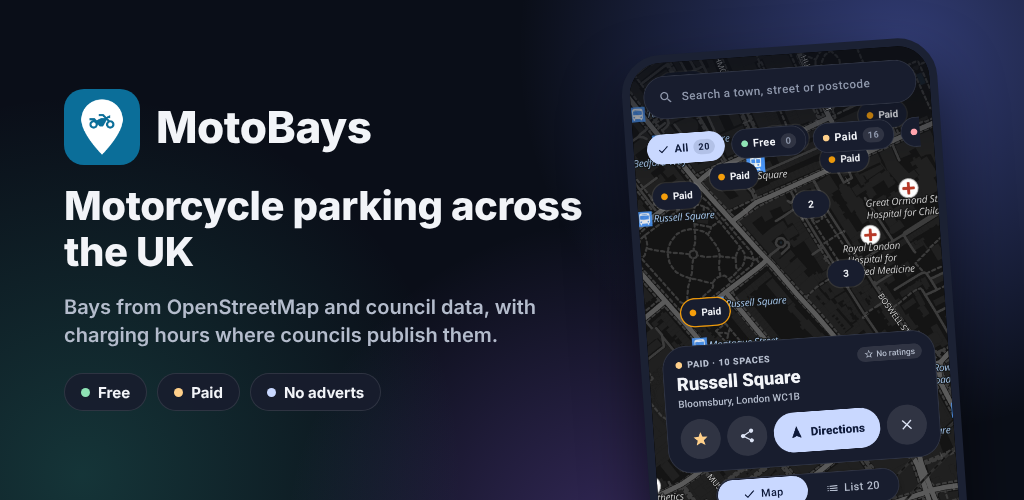
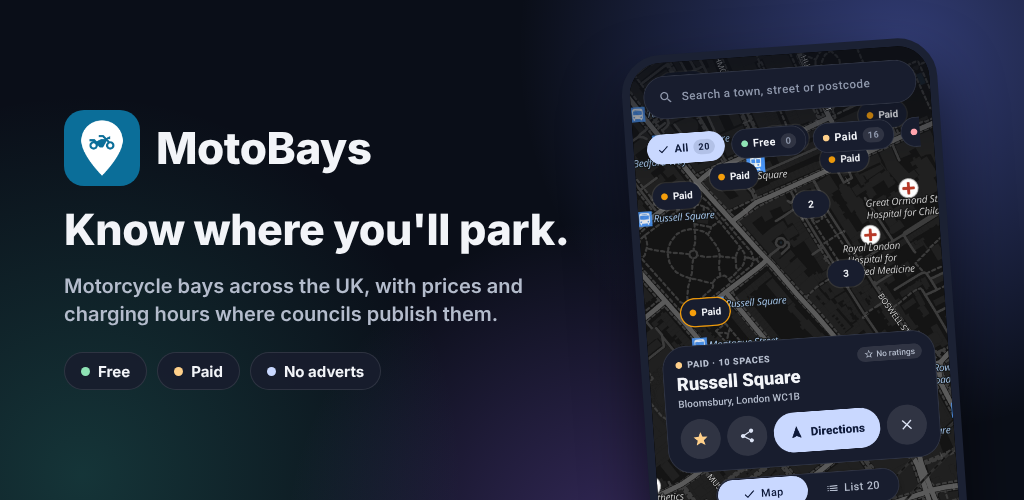
Feature graphic: tagline "Know where you'll park."
Written with the method in Ben Cornillie's tagline guide: describe the
product, cut to the main idea, then the fewest words in a fresh way. The
old headline moves down as the supporting line.

Claude-Session: https://claude.ai/code/session_01UEpEh7T4wxfzcdm8V78EXs

diff --git a/scripts/store/feature.html b/scripts/store/feature.html
@@ -10,11 +10,11 @@
       radial-gradient(circle at 8% 95%, rgba(60,190,170,0.22), transparent 36%),
       radial-gradient(circle at 60% 110%, rgba(160,110,255,0.28), transparent 40%),
       #0A0E18; }
-  .copy { position: absolute; left: 64px; top: 0; bottom: 0; width: 520px; display: flex; flex-direction: column; justify-content: center; gap: 18px; }
+  .copy { position: absolute; left: 64px; top: 0; bottom: 0; width: 540px; display: flex; flex-direction: column; justify-content: center; gap: 18px; }
   .brand { display: flex; align-items: center; gap: 16px; }
   .brand img { width: 76px; height: 76px; border-radius: 20px; }
   .brand span { font-size: 44px; font-weight: 800; letter-spacing: -0.01em; }
-  h1 { margin: 0; font-size: 40px; line-height: 46px; font-weight: 800; letter-spacing: -0.01em; }
+  h1 { margin: 0; white-space: nowrap; font-size: 43px; line-height: 50px; font-weight: 800; letter-spacing: -0.01em; }
   p { margin: 0; font-size: 20px; line-height: 28px; font-weight: 600; color: #B4BCCC; }
   .chips { display: flex; gap: 10px; margin-top: 6px; }
   .chip { height: 36px; padding: 0 16px; border-radius: 999px; background: rgba(24,29,46,0.9); border: 1px solid rgba(255,255,255,0.10);
@@ -27,8 +27,8 @@
 <body><div class="art">
   <div class="copy">
     <div class="brand"><img src="icon.png" alt=""><span>MotoBays</span></div>
-    <h1>Motorcycle parking across the UK</h1>
-    <p>Bays from OpenStreetMap and council data, with charging hours where councils publish them.</p>
+    <h1>Know where you'll park.</h1>
+    <p>Motorcycle bays across the UK, with prices and charging hours where councils publish them.</p>
     <div class="chips">
       <div class="chip"><span class="dot" style="background:#8FE3B5"></span>Free</div>
       <div class="chip"><span class="dot" style="background:#FFD08A"></span>Paid</div>
